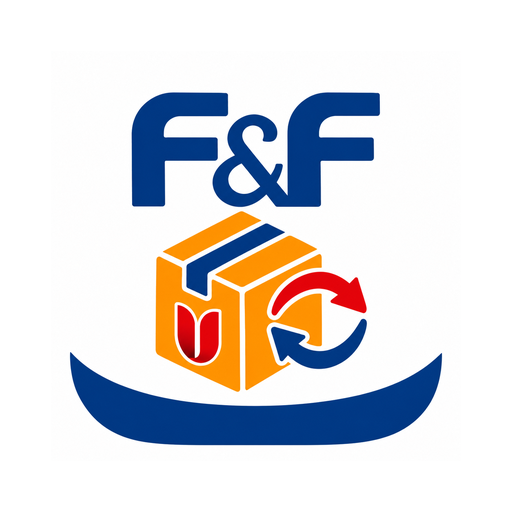
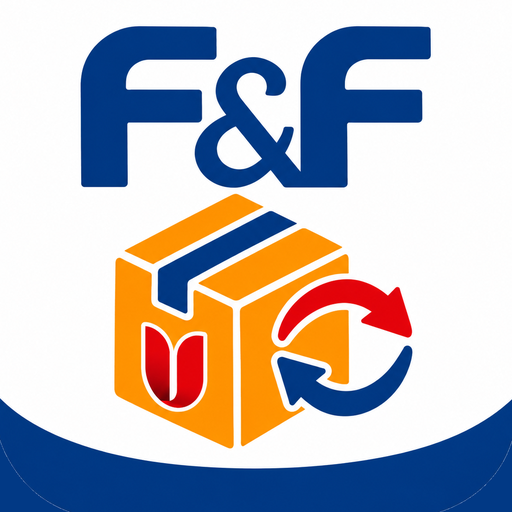
Ícone sem margem branca: faixa azul até as bordas
Claude-Session: https://claude.ai/code/session_01CZFmzHFJSJjWp4VaxFJJDp

diff --git a/index.html b/index.html
@@ -9,9 +9,9 @@
 <meta name="apple-mobile-web-app-capable" content="yes">
 <meta name="apple-mobile-web-app-status-bar-style" content="default">
 <meta name="apple-mobile-web-app-title" content="Estoque FFSP">
-<link rel="manifest" href="manifest.json?v=4">
-<link rel="apple-touch-icon" href="icon-180.png?v=4">
-<link rel="icon" href="icon-192.png?v=4">
+<link rel="manifest" href="manifest.json?v=5">
+<link rel="apple-touch-icon" href="icon-180.png?v=5">
+<link rel="icon" href="icon-192.png?v=5">
 <link rel="stylesheet" href="styles.css">
 <script src="https://cdn.jsdelivr.net/npm/xlsx@0.18.5/dist/xlsx.full.min.js" defer></script>
 </head>

diff --git a/sw.js b/sw.js
@@ -1,5 +1,5 @@
 // Service worker: notificações com o app fechado + funcionamento básico offline
-const CACHE = "estoque-v17";
+const CACHE = "estoque-v18";
 const ARQUIVOS = ["./", "./index.html", "./app.js", "./styles.css", "./config.js", "./manifest.json", "./icon-192.png"];
 
 self.addEventListener("install", (e) => {
